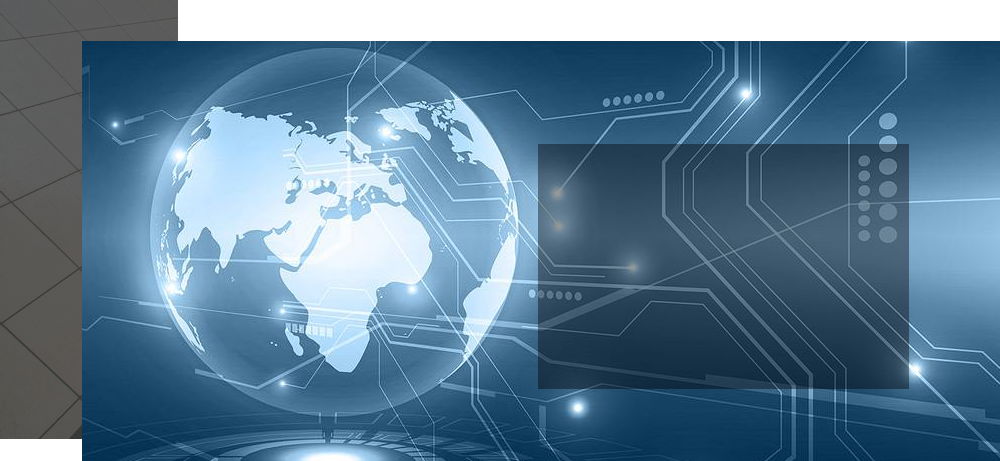
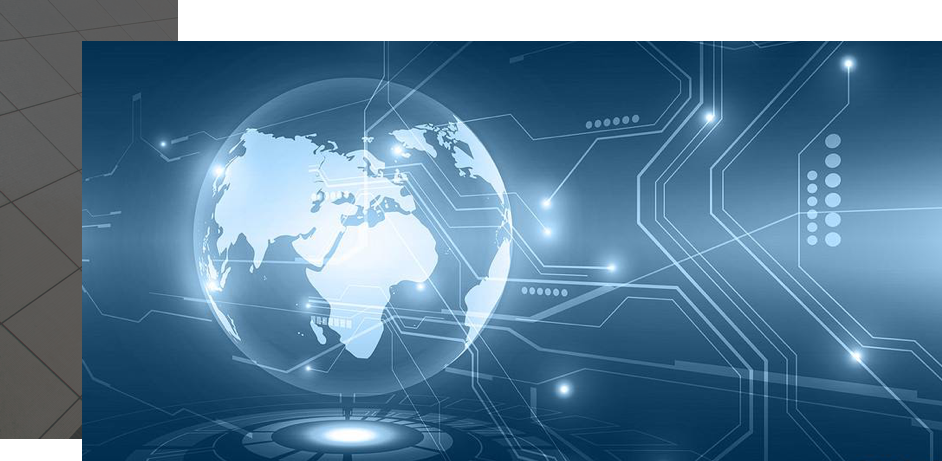
product responsive

diff --git a/src/styles/views/product.less b/src/styles/views/product.less
@@ -162,31 +162,82 @@
       });
     }
   }
+
+  // product 2 智策
   .product-2-zhice {
     .text-container {
-      position: relative;
-      display: inline-block;
-      width: 337px;
-      left: 54%;
-      top: 220px;
+      position: absolute;
+      max-width: 371px;
+      min-height: 245px;
+      background:rgba(0,0,0,0.4);
+      right: 28.6%;
+      top: 36.6%;
+      box-sizing: border-box;
+      padding-left: 15px;
+      padding-right: 15px;
+      padding-top: 10px;
+      padding-bottom: 10px;
       z-index: 1000;
       .product-title {
         color: #ffffff !important;
+        .narrowerThanSmall({
+          color: #333333 !important;
+        });
       }
       .product-sub-title {
         color: #ffffff !important;
+        .narrowerThanSmall({
+          color: #333333 !important;
+        });
       }
       .product-desc {
         color: #ffffff !important;
-        margin-top: 10px;
+        margin-top: 20px;
+        .narrowerThanSmall({
+          color: #999999 !important;
+        });
       }
+
+      .narrowerThanSmall({
+        position: relative;
+        width: 90%;
+        max-width: 100%;
+        right: 0;
+        top: 0;
+        padding: 0;
+        background: none;
+        padding-top: 20%;
+        margin-left: auto;
+        margin-right: auto;
+      });
+      
     }
-    .product-bg-2 {
+
+    .img-container {
       position: absolute;
-      top: 60px;
+      top: 50%;
       left: 50%;
-      transform: translateX(-50%);
+      transform: translate3d(-50%, -50%, 0);
+      .backgroundCover('views/product/img-product-bg-2.png');
+      width: 942px;
+      height: 461px;
       z-index: 0;
+
+      .narrowerThanSmall({
+        position: relative;
+        top: 0;
+        left: 0;
+        transform: none;
+        background-image: none;
+        background-image: none;
+        padding-bottom: 10%;
+        padding-top: 10%;
+        width: auto;
+        height: auto;
+        margin-left: auto;
+        margin-right: auto;
+        background-image: none;
+      });
     }
   }
 
@@ -306,32 +357,78 @@
   }
   .product-6-zhiyue {
     .text-container {
-      position: relative;
-      display: inline-block;
-      left: 56%;
-      top: 248px;
-      width: 310px;
+      position: absolute;
+      max-width: 353px;
+      min-height: 234px;
+      background:rgba(0,0,0,0.4);
+      right: 28.6%;
+      top: 30%;
+      box-sizing: border-box;
+      padding-left: 15px;
+      padding-right: 15px;
+      padding-top: 10px;
+      padding-bottom: 10px;
       z-index: 1000;
-      .product-desc {
-        margin-top: 20px;
-      }
       .product-title {
         color: #ffffff !important;
+        .narrowerThanSmall({
+          color: #333333 !important;
+        });
       }
       .product-sub-title {
         color: #ffffff !important;
+        .narrowerThanSmall({
+          color: #333333 !important;
+        });
       }
       .product-desc {
         color: #ffffff !important;
-        margin-top: 10px;
+        margin-top: 20px;
+        .narrowerThanSmall({
+          color: #999999 !important;
+        });
       }
+
+      .narrowerThanSmall({
+        position: relative;
+        width: 90%;
+        max-width: 100%;
+        right: 0;
+        top: 0;
+        padding: 0;
+        background: none;
+        padding-top: 20%;
+        margin-left: auto;
+        margin-right: auto;
+      });
+      
     }
-    .product-bg-6 {
+
+    .img-container {
       position: absolute;
-      top: 75px;
+      top: 50%;
       left: 50%;
-      transform: translateX(-50%);
+      transform: translate3d(-50%, -50%, 0);
+      .backgroundCover('views/product/img-product-bg-6.png');
+      width: 835px;
+      height: 439px;
       z-index: 0;
+
+      .narrowerThanSmall({
+        position: relative;
+        top: 0;
+        left: 0;
+        transform: none;
+        background-image: none;
+        background-image: none;
+        padding-bottom: 10%;
+        padding-top: 10%;
+        width: auto;
+        height: auto;
+        margin-left: auto;
+        margin-right: auto;
+        background-image: none;
+      });
     }
   }
 

diff --git a/Reference.md b/Reference.md
@@ -81,6 +81,9 @@ https://github.com/ReactTraining/react-router/issues/2019 <br>
 [2] Using 3d party react components with inferno
 https://github.com/infernojs/inferno/issues/700 <br>
 
+[3] Calling setState in render causes infinite loop
+https://github.com/facebook/react/issues/5591 <br>
+
 
 # typescript
 [1] Typescript error TS2339: Property 'webkitURL' does not exist on type 'Window'
